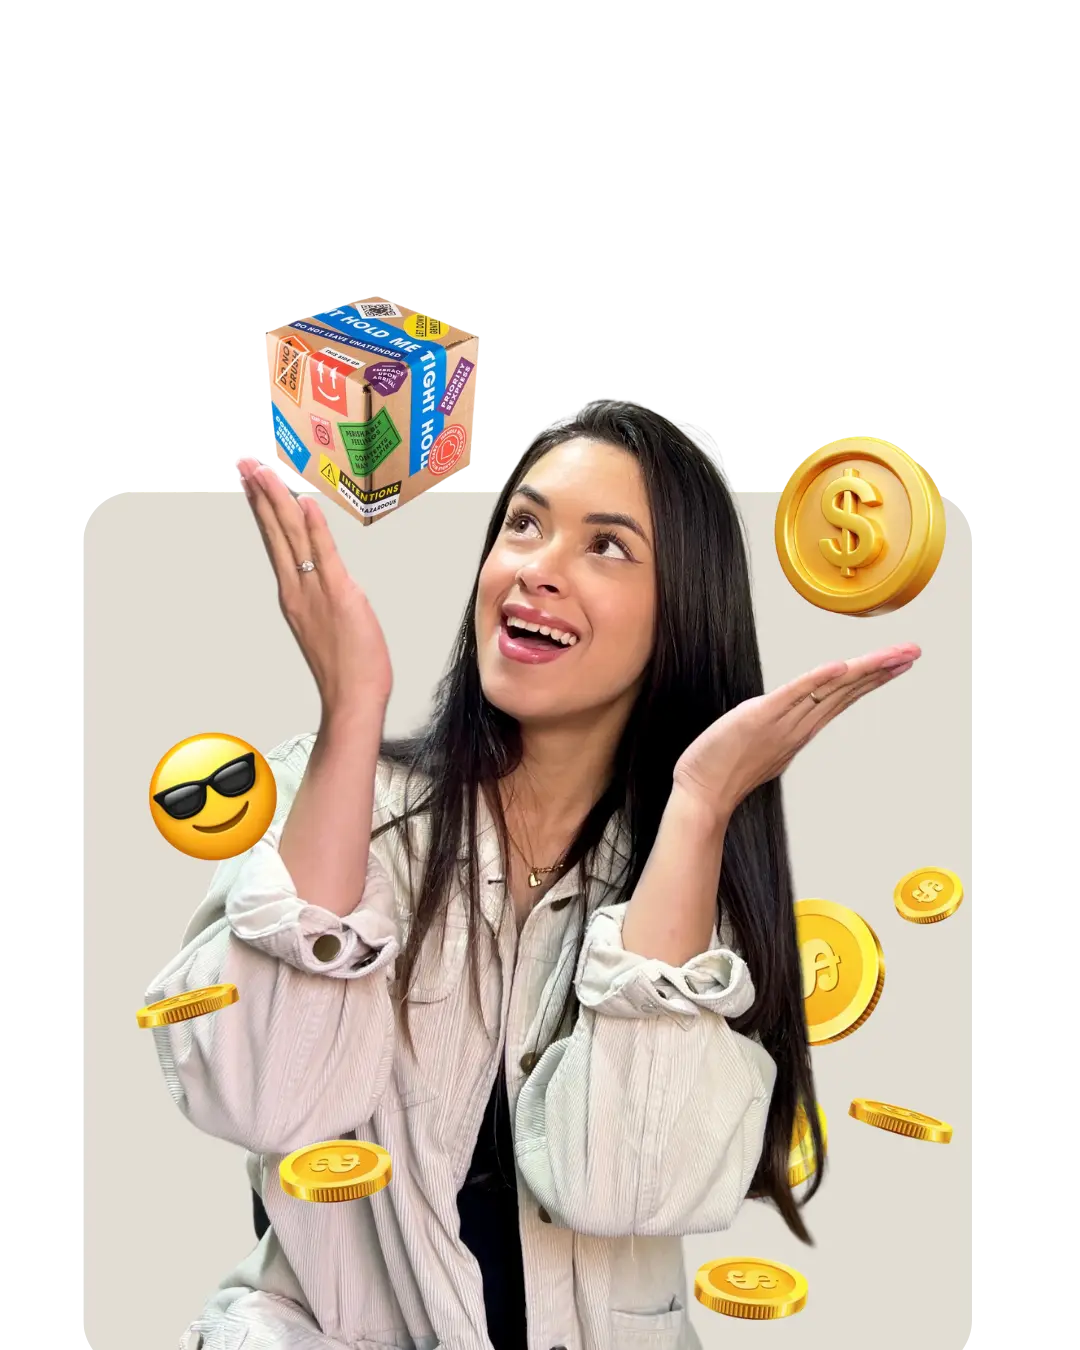
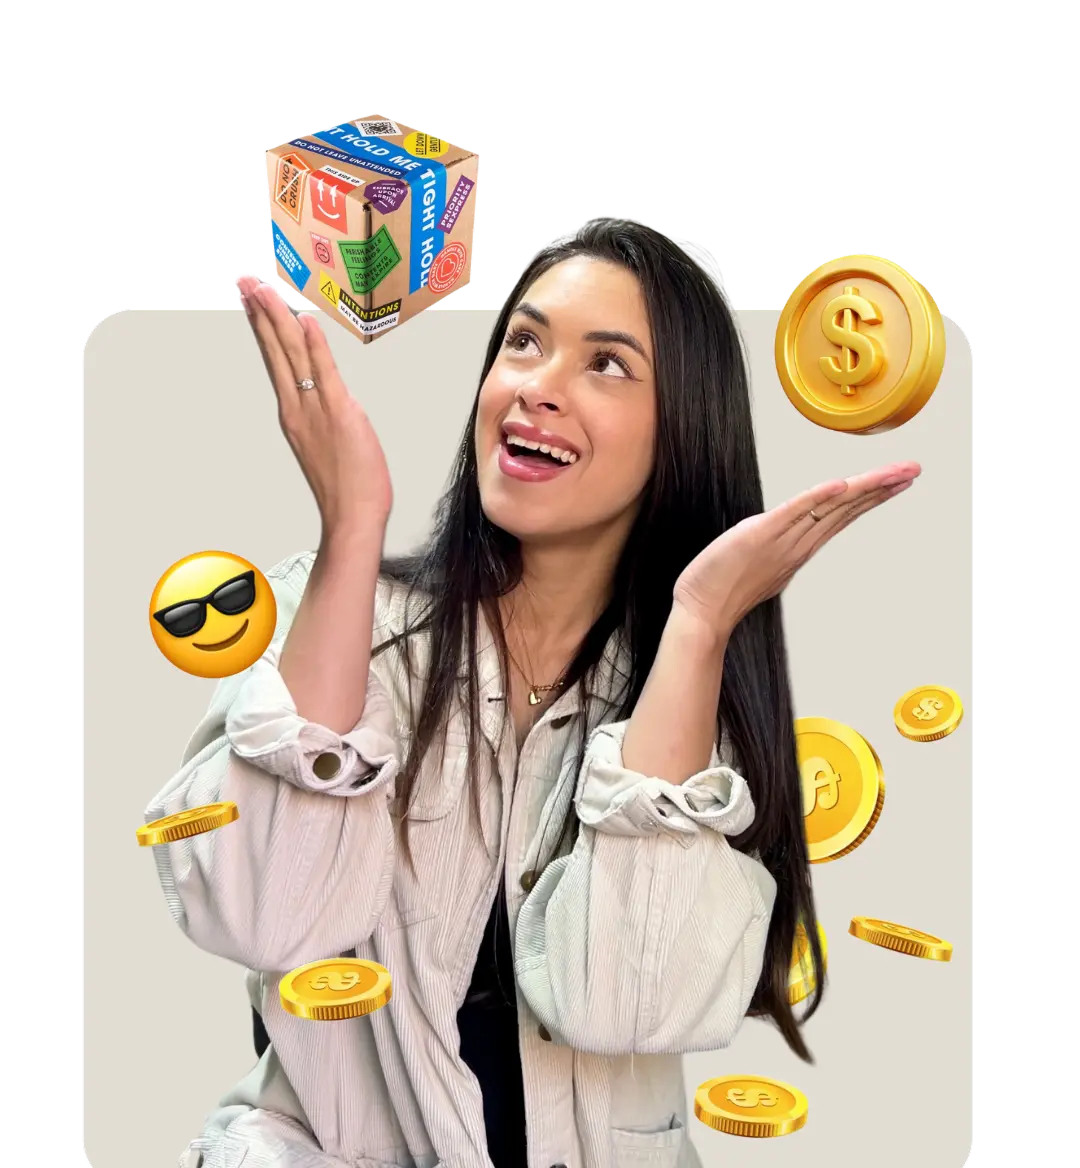
fixing ui photos

diff --git a/src/views/courses/Courses.module.css b/src/views/courses/Courses.module.css
@@ -41,7 +41,7 @@
 }
 
 .img {
-  width: 100%;
+  width: 40vw;
 }
 
 /* section one */
@@ -85,23 +85,14 @@ button:hover {
 .side_a_two {
   display: flex;
   width: 50%;
-  height: 500px;
   position: relative;
 }
-.side_a_two .img {
-  display: flex;
-  position: absolute;
-  right: 0;
-  bottom: 0;
-  border-radius: 50px;
-}
-
 /* section three */
 
 .title_four {
   font-size: 50px;
   text-align: left;
-  margin: 0;
+  margin: 30px 30px 30px 30px;
 }
 
 li {
@@ -125,7 +116,7 @@ li {
 
 .cta {
   position: absolute;
-  top: 470px;
+  top: 60%;
   margin: 0;
 }
 
@@ -160,7 +151,7 @@ li {
 
 .h1_four {
   font-size: 64px;
-  margin: 0;
+  max-width: 90%;
 }
 
 .cards_c {
@@ -257,19 +248,19 @@ li {
   }
 } */
 
-.counter{
+.counter {
   margin-bottom: 170px;
 }
 
 @media screen and (max-width: 800px) {
-  .counter{
-  margin-bottom: 0px;
-}
+  .counter {
+    margin-bottom: 0px;
+  }
   .cta {
-    top: 170px;
+    top: 60%;
   }
   .cta button {
-    top: 170px;
+    top: 60%;
     font-size: 14px;
     width: 90vw;
   }
@@ -301,6 +292,7 @@ li {
     font-size: 24px;
     text-align: center;
     margin: 0;
+    margin: 30px 30px 30px 30px;
   }
 
   /* section two */
@@ -313,17 +305,18 @@ li {
     justify-content: center;
   }
   .side_a_two {
-    height: 200px;
     align-items: center;
     justify-content: center;
     display: flex;
   }
   .side_a_two .img {
     display: flex;
-    position: static;
     border-radius: 50px;
-    bottom: 20px;
-    max-width: 200px;
+    bottom: 300px;
+  }
+
+  .img {
+    width: 100vw;
   }
 
   /* section three */
@@ -373,6 +366,8 @@ li {
 
   .title_four {
     font-size: 30px;
+    max-width: 90%;
+    margin: 30px 30px 30px 30px;
   }
 
   .title_four_cta {
@@ -401,7 +396,7 @@ li {
 
 @media screen and (min-width: 801px) and (max-width: 1300px) {
   .cta {
-    top: 260px;
+    top: 60%;
   }
   .main_c {
     width: 90%;
@@ -430,7 +425,7 @@ li {
   .title_four {
     font-size: 30px;
     text-align: center;
-    margin: 0;
+    margin: 30px 30px 30px 30px;
   }
 
   /* section two */
@@ -442,17 +437,14 @@ li {
     width: 50%;
   }
   .side_a_two {
-    height: 200px;
     align-items: center;
     justify-content: center;
     display: flex;
   }
   .side_a_two .img {
     display: flex;
-    position: static;
     border-radius: 50px;
-    bottom: 20px;
-    max-width: 340px;
+    bottom: 200px;
   }
 
   /* section three */
@@ -497,6 +489,8 @@ li {
 
   .title_four {
     font-size: 30px;
+    max-width: 90%;
+    margin: 30px 30px 30px 30px;
   }
 
   .title_four_cta {

diff --git a/src/views/courses/Courses.jsx b/src/views/courses/Courses.jsx
@@ -53,9 +53,9 @@ const Courses = () => {
             todo lo que recibas. ¡Y ni hablar de los pagos que puedes recibir!
           </span>
         </div>
-        <div className={s.side_a_two}>
-          <img src={photo_2} alt="section_one_photo" className={s.img} />
-        </div>
+          <div className={s.side_a_two}>
+            <img src={photo_2} alt="section_one_photo" className={s.img} />
+          </div>
       </section>
       <div style={{zIndex:30, width:"100%"}}>
         <Separator />
